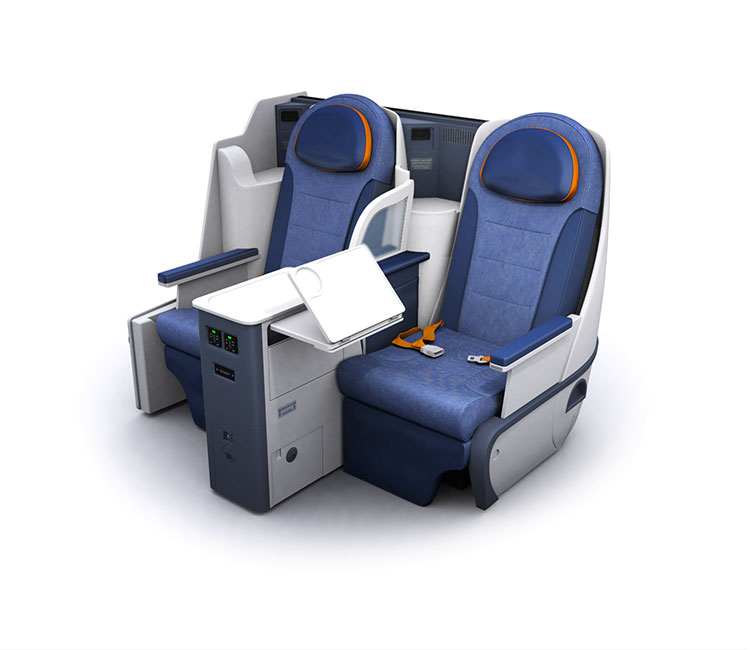
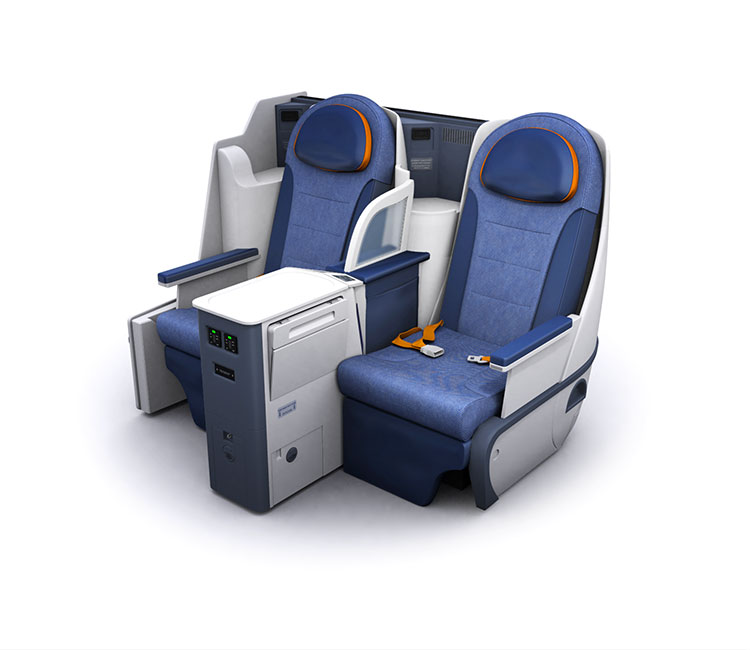
Table upd.

Changed region(s): [[0.3373, 0.3692, 0.552, 0.6462]]

diff --git a/www/htdocs/js/jquery.3d.js b/www/htdocs/js/jquery.3d.js
@@ -683,7 +683,7 @@ $(function() {
       rotate: 198, // rotate frames 0 - 199,
       expand: 42, // expand frames 0 - 43
       light: 26, // light frames 0 25
-      table: 9 // table frames
+      table: 33 // table frames
     }
   });
 });
